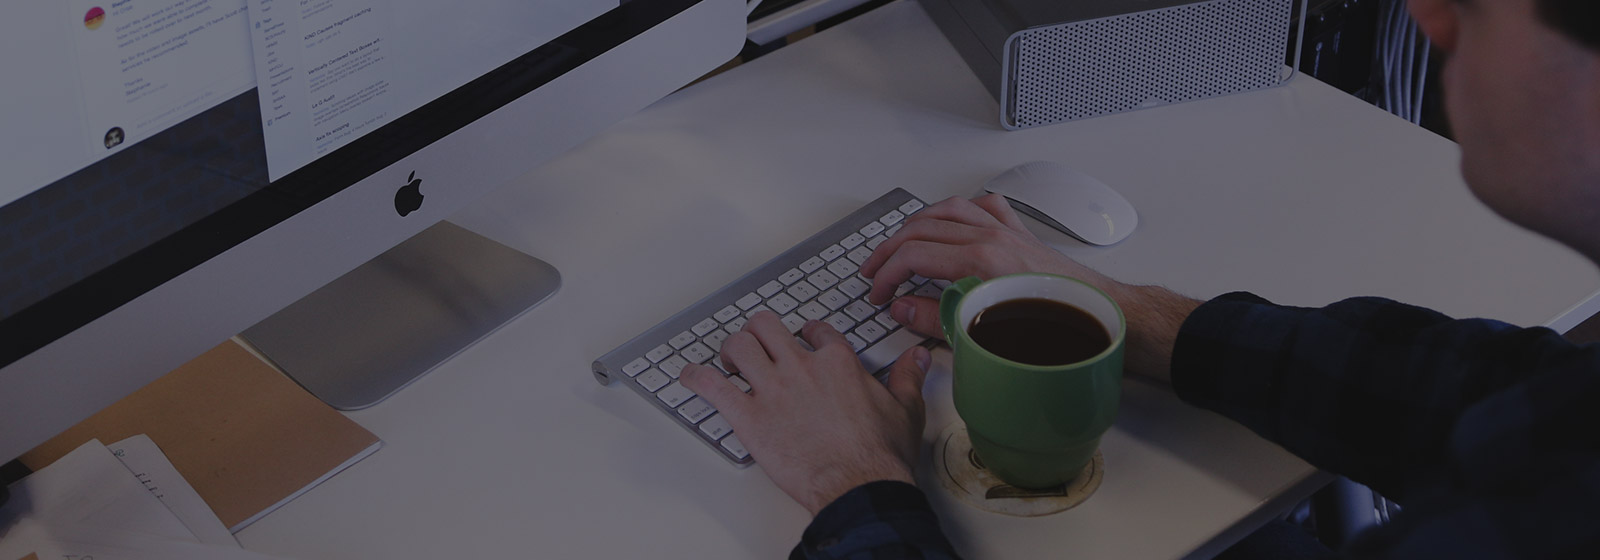
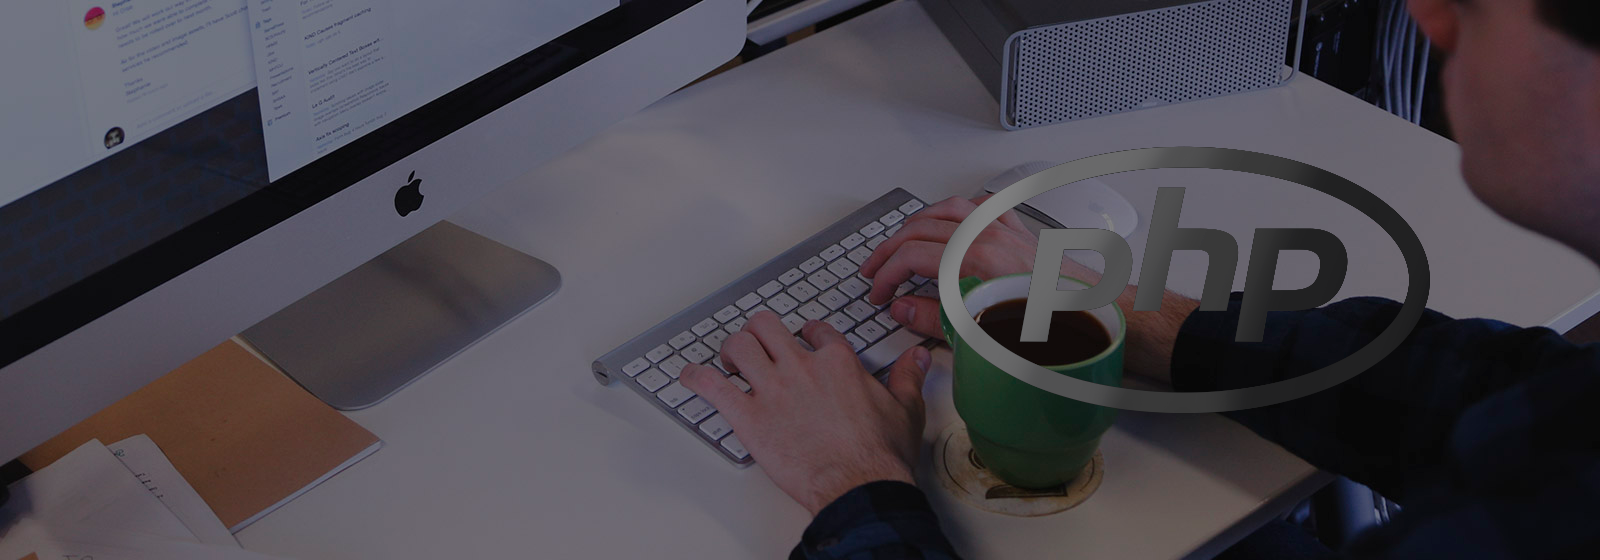
new carusel block, new images

Changed region(s): [[0.5625, 0.2429, 0.9062, 0.7589]]

diff --git a/index.html b/index.html
@@ -66,7 +66,7 @@
         		<div class="container">
             		<div class="row">
                 		<div class="figure-holder">
-                	        <img class="figure-image img-responsive" src="assets/images/Kubernetes.png" alt="image" />
+                	        <!--<img class="figure-image img-responsive" src="assets/images/Kubernetes.png" alt="image" />-->
                         </div><!--//figure-holder-->
             		</div><!--//row-->
         		</div><!--//container-->
@@ -107,7 +107,7 @@
 					</div>
 				</div><!--//item-->
                 
-                <div class="item item-2">
+                <div class="item item-3">
 					<div class="item-content container">
 						<div class="item-content-inner">
     				        
@@ -119,7 +119,7 @@
 					</div>
                 </div><!--//item-->
                 
-				<div class="item item-3">
+				<div class="item item-4">
 					<div class="item-content container">
 						<div class="item-content-inner">
     				        

diff --git a/assets/css/styles.css b/assets/css/styles.css
@@ -292,7 +292,7 @@ a.btn-cta {
   background-position: center center;
 }
 .hero-carousel .carousel-inner .item-1 {
-  background-image: url('../images/hero-1.jpg');
+  background-image: url('../images/hero-4.jpg');
   -webkit-background-size: cover;
   -moz-background-size: cover;
   -o-background-size: cover;
@@ -306,6 +306,13 @@ a.btn-cta {
   background-size: cover;
 }
 .hero-carousel .carousel-inner .item-3 {
+  background-image: url('../images/hero-1.jpg');
+  -webkit-background-size: cover;
+  -moz-background-size: cover;
+  -o-background-size: cover;
+  background-size: cover;
+}
+.hero-carousel .carousel-inner .item-4 {
   background-image: url('../images/hero-3.jpg');
   -webkit-background-size: cover;
   -moz-background-size: cover;
